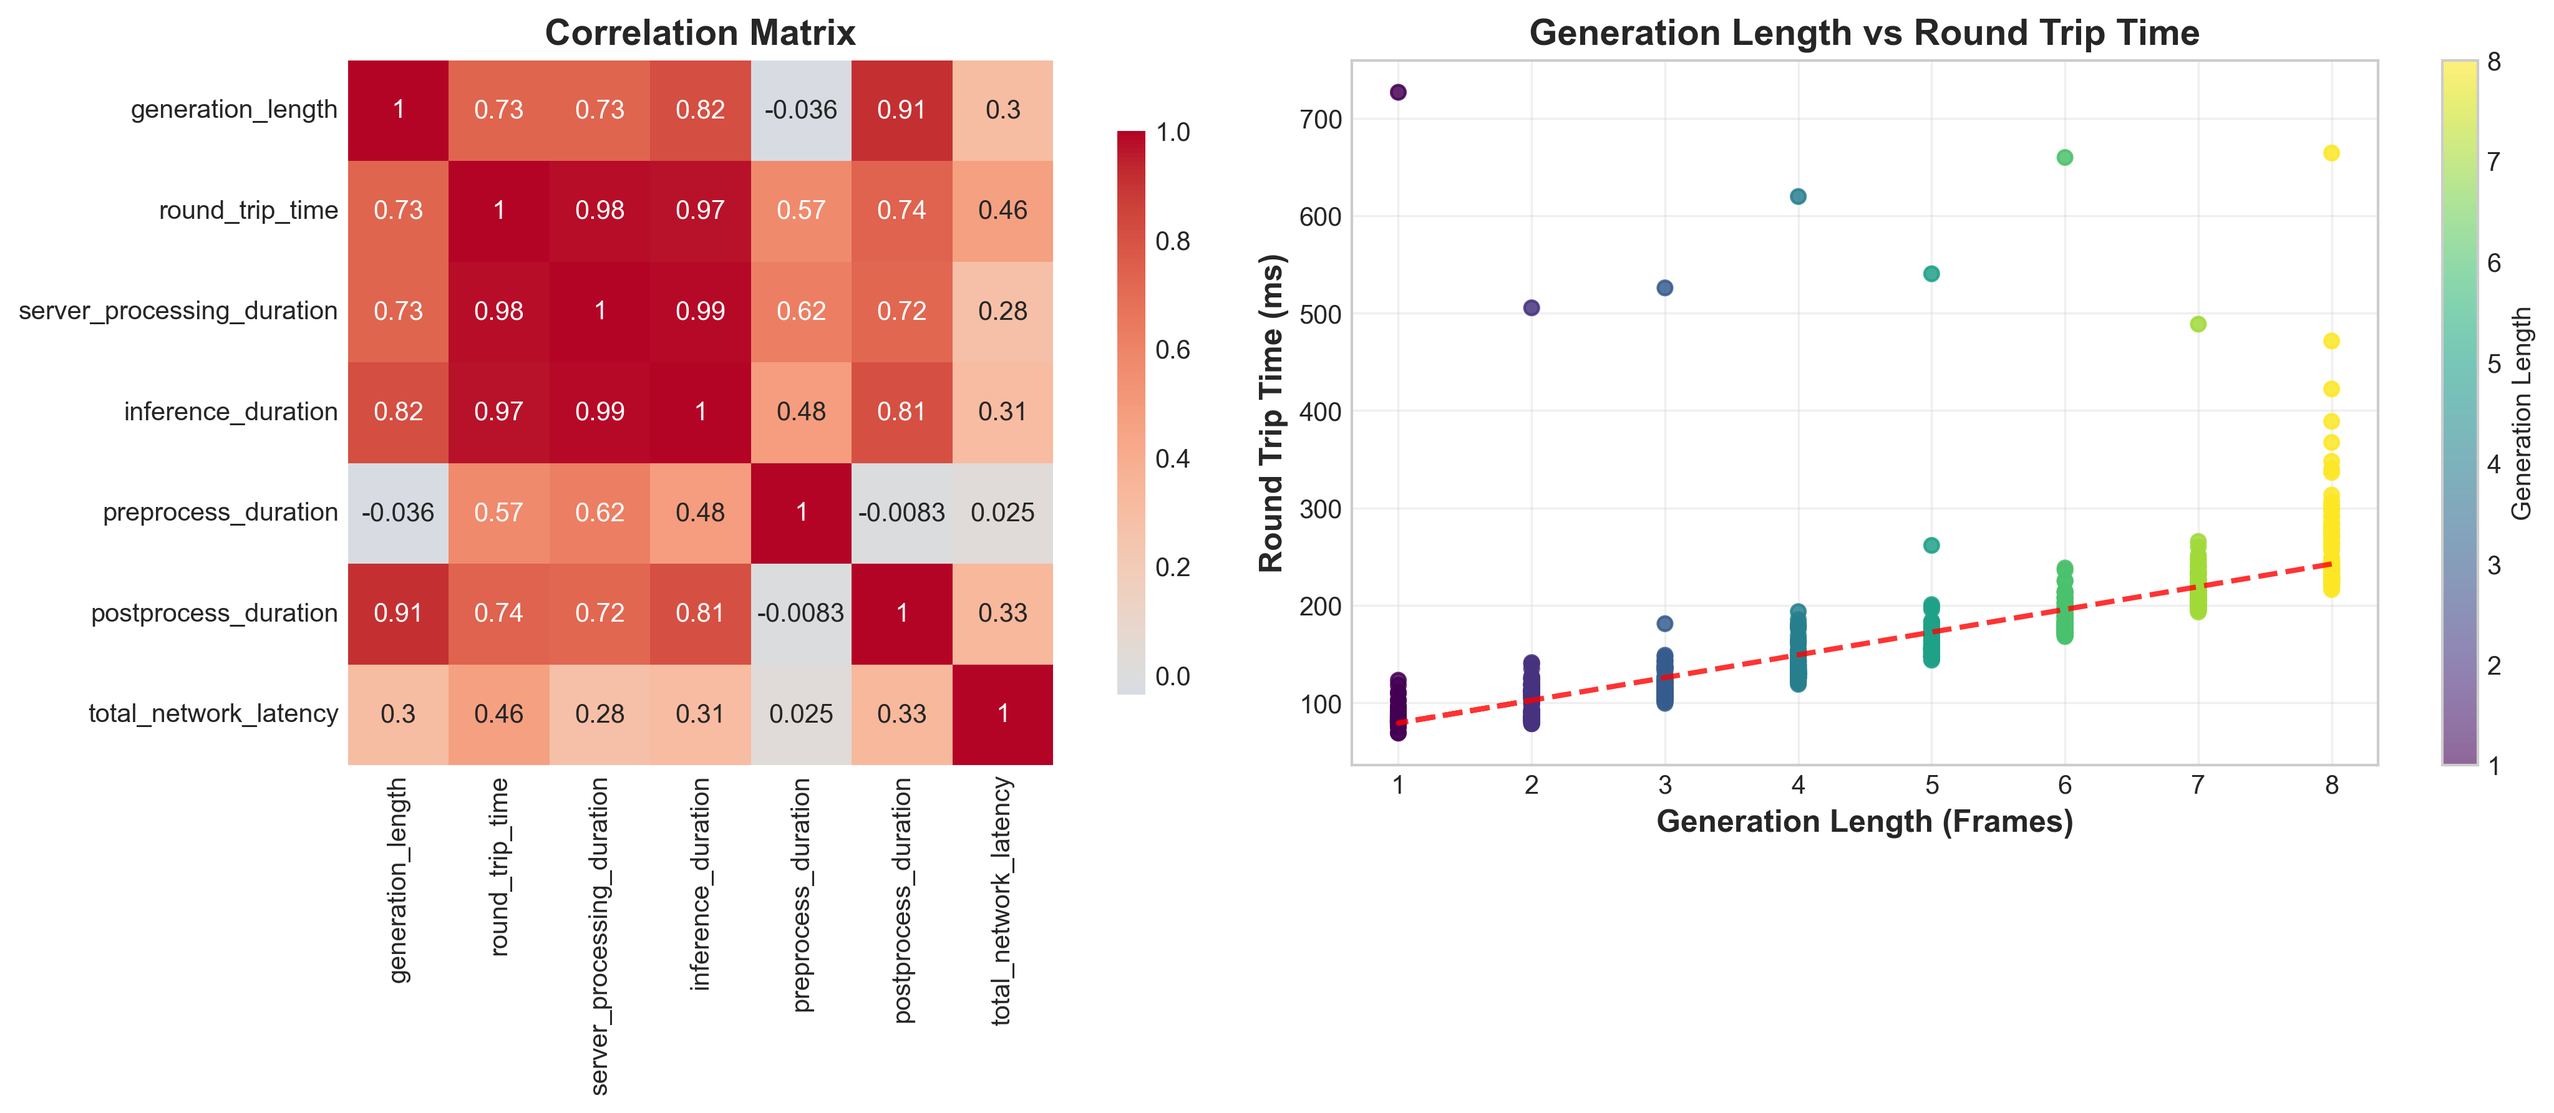
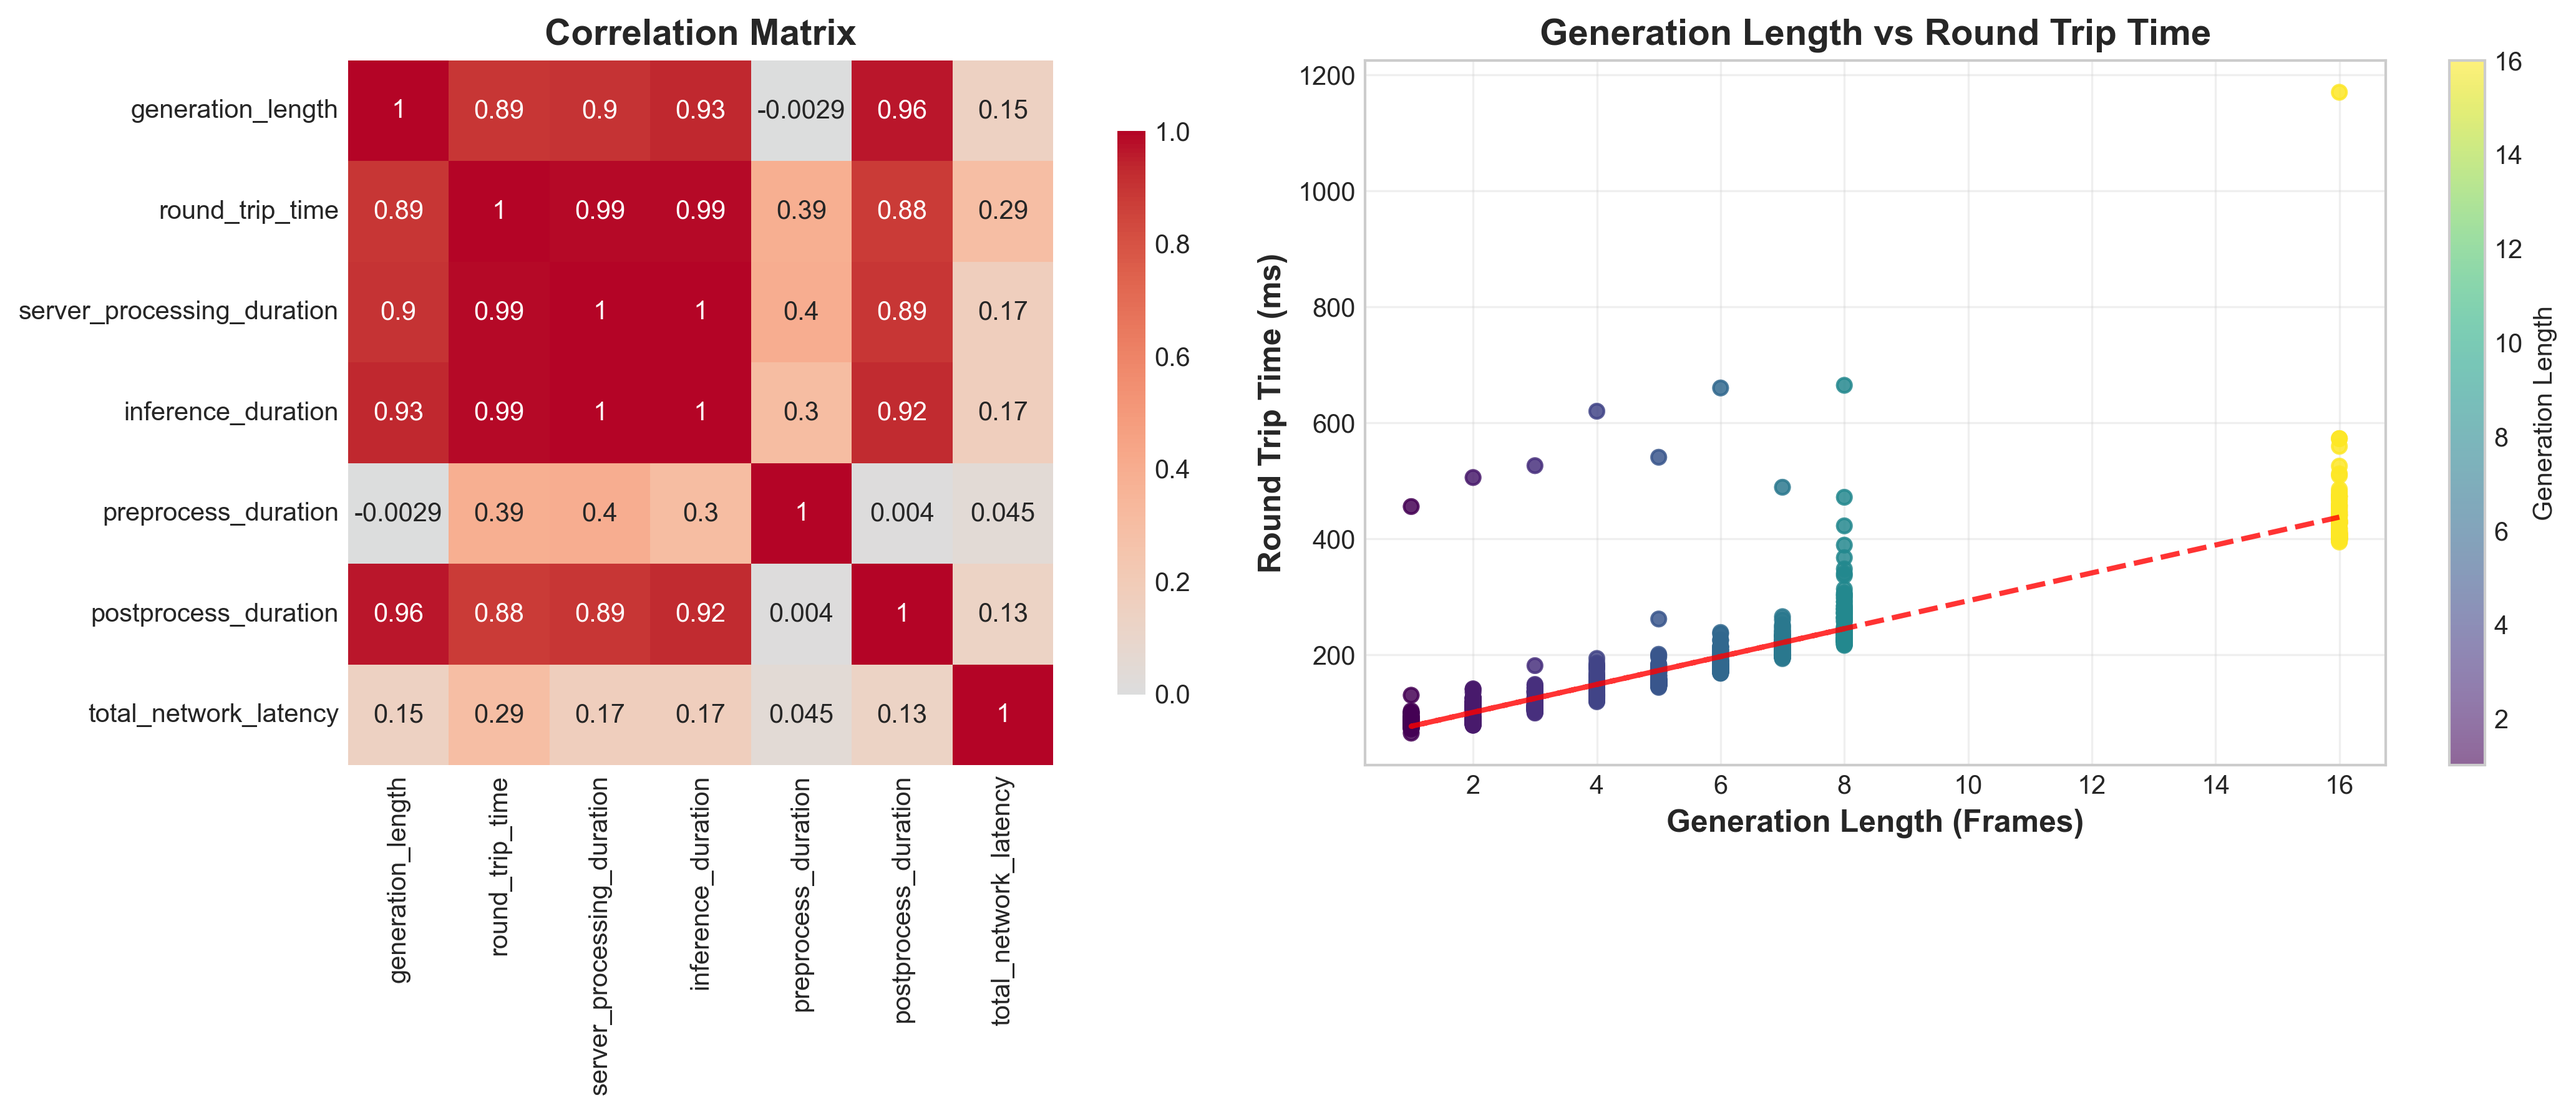
tick frontier

diff --git a/app/analyze_generation_length_results.py b/app/analyze_generation_length_results.py
@@ -329,15 +329,69 @@ class GenerationLengthAnalyzer:
             ax.set_xticks(x_ticks)
             ax.set_xlim(x_min - tick_step, x_max + tick_step)
         
+        # Add musical time constraint lines
+        gen_lengths = sorted(self.summary_data['generation_length'].unique())
+        if len(gen_lengths) > 0:
+            frontier_x = []
+            musical_time_y = []
+            buffer_minus1_y = []
+            buffer_minus2_y = []
+            
+            min_gen = int(min(gen_lengths))
+            max_gen = int(max(gen_lengths))
+            
+            for gen_length in range(min_gen, max_gen + 1):
+                # Calculate how many complete ticks this represents
+                # gen_length 1,2 → 1 tick; gen_length 3,4 → 2 ticks; etc.
+                num_ticks = (gen_length + 1) // 2  # Ceiling division by 2
+                musical_time_ms = num_ticks * 125  # milliseconds of musical time (0.125s = 125ms)
+                buffer_minus1_ms = musical_time_ms - 125  # - 1 tick buffer (125ms)
+                buffer_minus2_ms = musical_time_ms - 250  # - 2 tick buffer (250ms)
+                
+                frontier_x.append(gen_length)
+                musical_time_y.append(musical_time_ms)
+                buffer_minus1_y.append(max(0, buffer_minus1_ms))  # Don't go below 0
+                buffer_minus2_y.append(max(0, buffer_minus2_ms))  # Don't go below 0
+            
+            # Plot as custom step functions with steps exactly at even numbers (2,4,6,8...)
+            step_x = []
+            step_musical_y = []
+            step_minus1_y = []
+            step_minus2_y = []
+            
+            for i, gen_length in enumerate(frontier_x):
+                # Add the horizontal segment
+                step_x.append(gen_length)
+                step_musical_y.append(musical_time_y[i])
+                step_minus1_y.append(buffer_minus1_y[i])
+                step_minus2_y.append(buffer_minus2_y[i])
+                
+                # Add vertical line at even numbers
+                if gen_length % 2 == 0 and i < len(frontier_x) - 1:  # Even number and not last point
+                    step_x.append(gen_length)
+                    step_musical_y.append(musical_time_y[i + 1])
+                    step_minus1_y.append(buffer_minus1_y[i + 1])
+                    step_minus2_y.append(buffer_minus2_y[i + 1])
+            
+            ax.plot(step_x, step_musical_y, color='red', linewidth=2, 
+                   linestyle='-', alpha=0.8, label='Musical Time Deadline', zorder=5)
+            
+            ax.plot(step_x, step_minus1_y, color='purple', linewidth=2, 
+                   linestyle='-', alpha=0.8, label='1 Useable Tick', zorder=5)
+            
+            ax.plot(step_x, step_minus2_y, color='darkblue', linewidth=2, 
+                   linestyle='-', alpha=0.8, label='2 Useable Ticks', zorder=5)
+        
         # Add trend line for round trip time
         if 'round_trip_time_mean' in self.summary_data.columns:
             x = self.summary_data['generation_length']
             y = self.summary_data['round_trip_time_mean'] * 1000
             z = np.polyfit(x, y, 1)
             p = np.poly1d(z)
-            ax.plot(x, p(x), "r--", alpha=0.5, linewidth=1, 
+            ax.plot(x, p(x), "gray", linestyle=":", alpha=0.7, linewidth=1, 
                    label=f'Trend: {z[0]:.2f}ms/frame')
-            ax.legend(fontsize=12, framealpha=0.9)
+        
+        ax.legend(fontsize=11, framealpha=0.9)
         
         plt.tight_layout()
         plt.savefig(self.plots_dir / "latency_vs_generation_length.png", 
@@ -564,16 +618,98 @@ class GenerationLengthAnalyzer:
         ax.set_ylabel('Round Trip Time (milliseconds)', fontsize=14, fontweight='bold')
         ax.set_title('Round Trip Time Upper Bounds\n(X% of requests complete within this time)', fontsize=16, fontweight='bold')
         
-        # Create a better legend layout
+        # Add musical time constraint lines (before legend creation)
+        # 2 frames = 1 tick = 0.125s = 125ms of musical time
+        # Steps occur at even numbers (2,4,6,8...) when new ticks start
+        frontier_x = []
+        musical_time_y = []
+        buffer_minus1_y = []
+        buffer_minus2_y = []
+        
+        min_gen = int(min(x))
+        max_gen = int(max(x))
+        
+        for gen_length in range(min_gen, max_gen + 1):
+            # Calculate how many complete ticks this represents
+            # gen_length 1,2 → 1 tick; gen_length 3,4 → 2 ticks; etc.
+            num_ticks = (gen_length + 1) // 2  # Ceiling division by 2
+            musical_time_ms = num_ticks * 125  # milliseconds of musical time (0.125s = 125ms)
+            buffer_minus1_ms = musical_time_ms - 125  # - 1 tick buffer (125ms)
+            buffer_minus2_ms = musical_time_ms - 250  # - 2 tick buffer (250ms)
+            
+            frontier_x.append(gen_length)
+            musical_time_y.append(musical_time_ms)
+            buffer_minus1_y.append(max(0, buffer_minus1_ms))  # Don't go below 0
+            buffer_minus2_y.append(max(0, buffer_minus2_ms))  # Don't go below 0
+        
+        # Plot as custom step functions with steps exactly at even numbers (2,4,6,8...)
+        # Create custom step data to get vertical lines exactly at 2,4,6,8...
+        step_x = []
+        step_musical_y = []
+        step_minus1_y = []
+        step_minus2_y = []
+        
+        for i, gen_length in enumerate(frontier_x):
+            # Add the horizontal segment
+            step_x.append(gen_length)
+            step_musical_y.append(musical_time_y[i])
+            step_minus1_y.append(buffer_minus1_y[i])
+            step_minus2_y.append(buffer_minus2_y[i])
+            
+            # Add vertical line at even numbers
+            if gen_length % 2 == 0 and i < len(frontier_x) - 1:  # Even number and not last point
+                step_x.append(gen_length)
+                step_musical_y.append(musical_time_y[i + 1])
+                step_minus1_y.append(buffer_minus1_y[i + 1])
+                step_minus2_y.append(buffer_minus2_y[i + 1])
+        
+        # Musical time deadline (red line)
+        ax.plot(step_x, step_musical_y, color='red', linewidth=3, 
+               linestyle='-', alpha=0.9, label='Musical Time Deadline', zorder=5)
+        
+        # 1 useable tick line (purple)
+        ax.plot(step_x, step_minus1_y, color='purple', linewidth=3, 
+               linestyle='-', alpha=0.9, label='1 Useable Tick', zorder=5)
+        
+        # 2 useable ticks line (dark blue)
+        ax.plot(step_x, step_minus2_y, color='darkblue', linewidth=3, 
+               linestyle='-', alpha=0.9, label='2 Useable Ticks', zorder=5)
+        
+        # Create legend after all lines are plotted
         handles, labels = ax.get_legend_handles_labels()
         
-        # Split legend into two columns for better readability
-        if len(handles) > 6:
-            legend1 = ax.legend(handles[:6], labels[:6], loc='upper left', fontsize=10, framealpha=0.9, title='Lower Percentiles')
+        # Separate percentile lines from frontier lines
+        percentile_handles = []
+        percentile_labels = []
+        frontier_handles = []
+        frontier_labels = []
+        
+        for handle, label in zip(handles, labels):
+            if any(frontier_name in label for frontier_name in ['Musical Time Deadline', 'Useable Tick']):
+                frontier_handles.append(handle)
+                frontier_labels.append(label)
+            else:
+                percentile_handles.append(handle)
+                percentile_labels.append(label)
+        
+        # Create main legend for percentiles (upper area)
+        if len(percentile_handles) > 6:
+            legend1 = ax.legend(percentile_handles[:6], percentile_labels[:6], 
+                               loc='upper left', fontsize=10, framealpha=0.9, title='Lower Percentiles')
             ax.add_artist(legend1)
-            ax.legend(handles[6:], labels[6:], loc='upper right', fontsize=10, framealpha=0.9, title='Higher Percentiles')
+            legend2 = ax.legend(percentile_handles[6:], percentile_labels[6:], 
+                               loc='upper right', fontsize=10, framealpha=0.9, title='Higher Percentiles')
+            ax.add_artist(legend2)
         else:
-            ax.legend(fontsize=11, loc='best', framealpha=0.9)
+            if percentile_handles:
+                legend1 = ax.legend(percentile_handles, percentile_labels, 
+                                   loc='upper left', fontsize=10, framealpha=0.9, title='Percentiles')
+                ax.add_artist(legend1)
+        
+        # Create frontier legend (bottom right)
+        if frontier_handles:
+            ax.legend(frontier_handles, frontier_labels, 
+                     loc='lower right', fontsize=11, framealpha=0.9, title='Musical Time Constraints')
         
         ax.grid(True, alpha=0.3)
         self._set_fine_x_ticks(ax)
